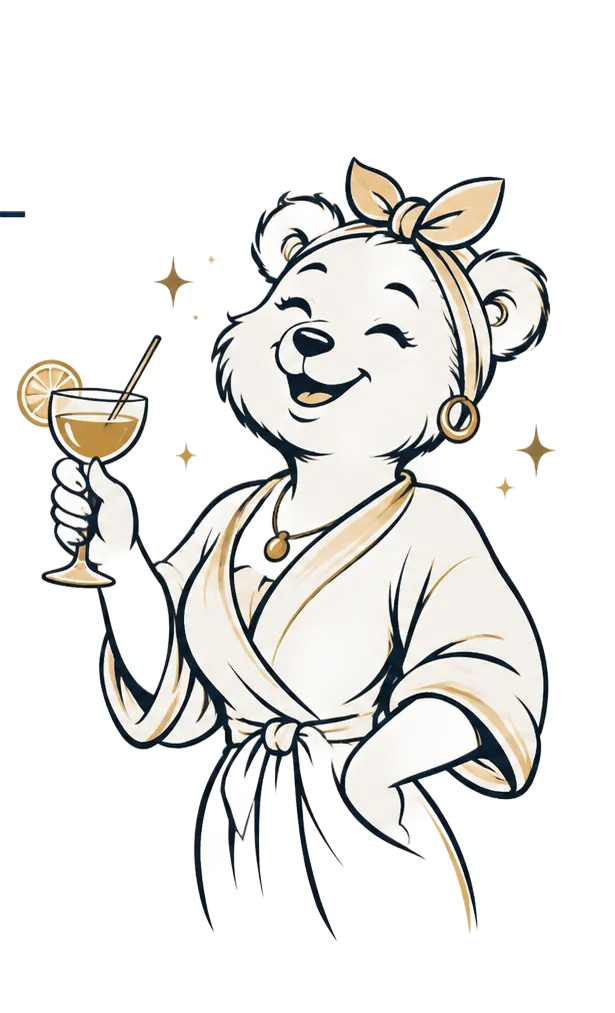
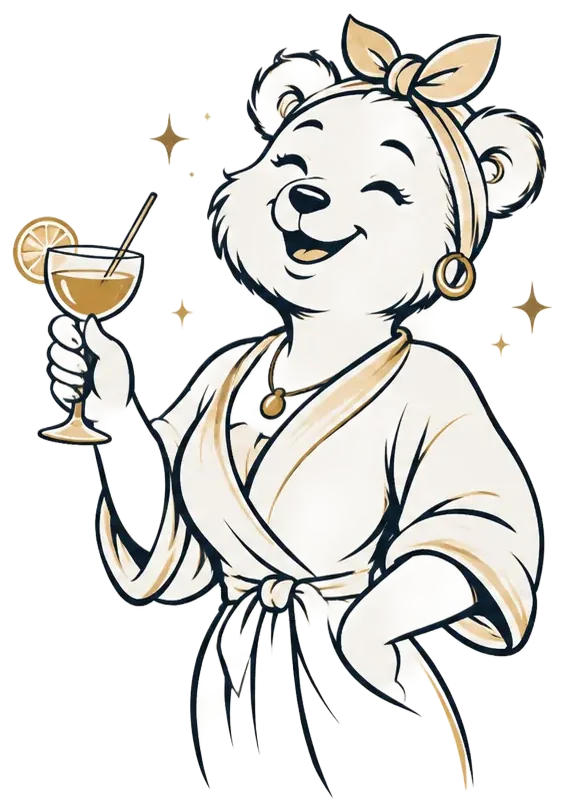
Tidy the welcome-section bear illustrations
- Erase the stray dash baked into welcome-1.webp and trim the empty
  transparent margins from both drawings.
- Show both bears at the same height on a cream panel; flex-grow is set
  from each drawing's aspect ratio so they stay matched at every width.
- Remove the horizontal scroll on tablet/mobile (visible scrollbar).
- Replace the misleading "room interior"/"lounge" alt text with
  descriptions of the illustrations.

Claude-Session: https://claude.ai/code/session_018qRqNghKC4rMbzWmbNXyfX

diff --git a/larraby.css b/larraby.css
@@ -61,19 +61,13 @@
     .welcome{background:var(--bg-light);padding:100px 64px 92px;}
     .welcome__heading{font-family:'Playfair Display',serif;font-size:clamp(28px,3.5vw,48px);font-weight:700;line-height:1.18;margin-bottom:24px}
     .welcome__body{display:grid;grid-template-columns:5fr 6fr;gap:72px;align-items:start;}
-    .welcome__media{display:flex;gap:16px;align-items:flex-start;flex-direction:row;flex-wrap:nowrap}
-    .welcome__img{flex:0 0 50%;max-width:50%;height:520px;max-height:520px;border-radius:20px;display:block;object-fit:cover;object-position:center center;background-color:var(--bg-light);transition:transform .35s ease}
-    .welcome__img--alt{border-radius:20px}
-    @media(min-width:1100px){
-      .welcome__img{object-fit:contain;height:520px;max-height:520px;object-position:center 30%}
-    }
+    .welcome__media{display:flex;align-items:flex-end;justify-content:center;gap:clamp(12px,3vw,36px);background:var(--gold-light);border:1px solid rgba(184,145,47,.18);border-radius:28px;padding:44px clamp(20px,4vw,48px) 0;overflow:hidden;}
+    /* flex-grow matches each drawing's aspect ratio so both bears render at the same height */
+    .welcome__img{display:block;min-width:0;height:auto;flex:754 1 0;}
+    .welcome__img--alt{flex:697 1 0;}
     .welcome__right{position:relative;display:flex;flex-direction:column;align-items:flex-start;gap:20px}
-    @media(max-width:1024px){
-      .welcome__media{flex-direction:row;overflow-x:auto}
-      .welcome__img{object-fit:contain;height:320px;max-height:320px;border-radius:20px;object-position:center;background-color:var(--bg-light);flex:0 0 50%;min-width:50%}
-    }
     @media(max-width:600px){
-      .welcome__img{height:240px;max-height:240px}
+      .welcome__media{border-radius:22px;padding-top:28px;}
     }
     
     .welcome__text{font-size:15px;line-height:1.9;color:var(--body);margin-bottom:32px;max-width:56ch;}
@@ -337,7 +331,7 @@
       .welcome{padding:64px 20px 52px;}
       .welcome__heading{font-size:clamp(24px,7vw,36px);margin-bottom:24px;}
       .welcome__body{grid-template-columns:1fr;gap:0;}
-      .welcome__img{height:240px;border-radius:12px;}
+      .welcome__media{margin-top:36px;}
       .welcome__right{padding-top:24px;}
       .welcome__text{margin-top:0;font-size:14px;}
 

diff --git a/index.html b/index.html
@@ -133,10 +133,10 @@
         </div>
       </div>
     </div>
-    <div class="welcome__media" role="group" aria-label="Larraby Hotel Epe interior photos">
+    <div class="welcome__media" role="group" aria-label="Larraby Hotel mascots">
       <!-- SEO: descriptive alt text, lazy loading on non-hero images -->
-      <img class="welcome__img" src="images/welcome.webp" alt="Comfortable room interior at Larraby Hotel, Epe Lagos" loading="lazy"/>
-      <img class="welcome__img welcome__img--alt" src="images/welcome-1.webp" alt="Larraby Hotel lounge and relaxation area in Epe" loading="lazy"/>
+      <img class="welcome__img" src="images/welcome.webp" alt="Illustration of a smiling bear in a linen suit raising a glass — Larraby Hotel mascot" width="889" height="1179" loading="lazy"/>
+      <img class="welcome__img welcome__img--alt" src="images/welcome-1.webp" alt="Illustration of a cheerful bear in a robe holding a cocktail — Larraby Hotel mascot" width="566" height="812" loading="lazy"/>
     </div>
   </div>
 </section>
